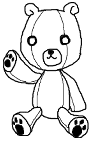
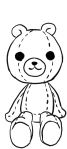
画像を描き直ししたため置き換え処置をした

diff --git a/index.html b/index.html
@@ -13,7 +13,7 @@
    </div>
 <!-----------メインイラスト----------------!>
 <div align="center">
-   <img src="image/topE.png">
+   <img src="image/indexE.png">
 </div>
 <!-----------案内文----------------!>
 <div align="center">
@@ -36,14 +36,13 @@
 
 <p>
 <a href="https://www.youtube.com/channel/UCMhJrUVcsVk9Q7z8YD8u5hA" target="_blank"><img src="image/buttonM.png"></a><br>
-↑寸劇＆ヒーリングセッション動画です。<br>
+↑ウサたんクマたんの茶番劇＆心理学系動画です。<br>
 youtubeチャンネルに繋がります。<br>
-<font color="red">（最終更新日2023/11/8）<br></font>
+<font color="red">（最終更新日2023/11/25）<br></font>
 </p>
  </div>
 <footer>
    <div align="center">
-   <p>
          ホーム<br>
          サイト概要<br>
          ブログ<br>

diff --git a/one-tarot.html b/one-tarot.html
@@ -35,7 +35,7 @@
     <!-- カードを引く前 (最初はこっちだけ見せる) -->
     <div class="center" id="before-draw">
         <!--男の子のイラスト表示-->
-        <img src="image/card1-1.png" />
+        <img src="image/otouto.png" />
         <button onclick="onClickDrawCard()">私の今の気持ちを教えて</button>
         <img src="image/kuma1.png" />
     </div>
